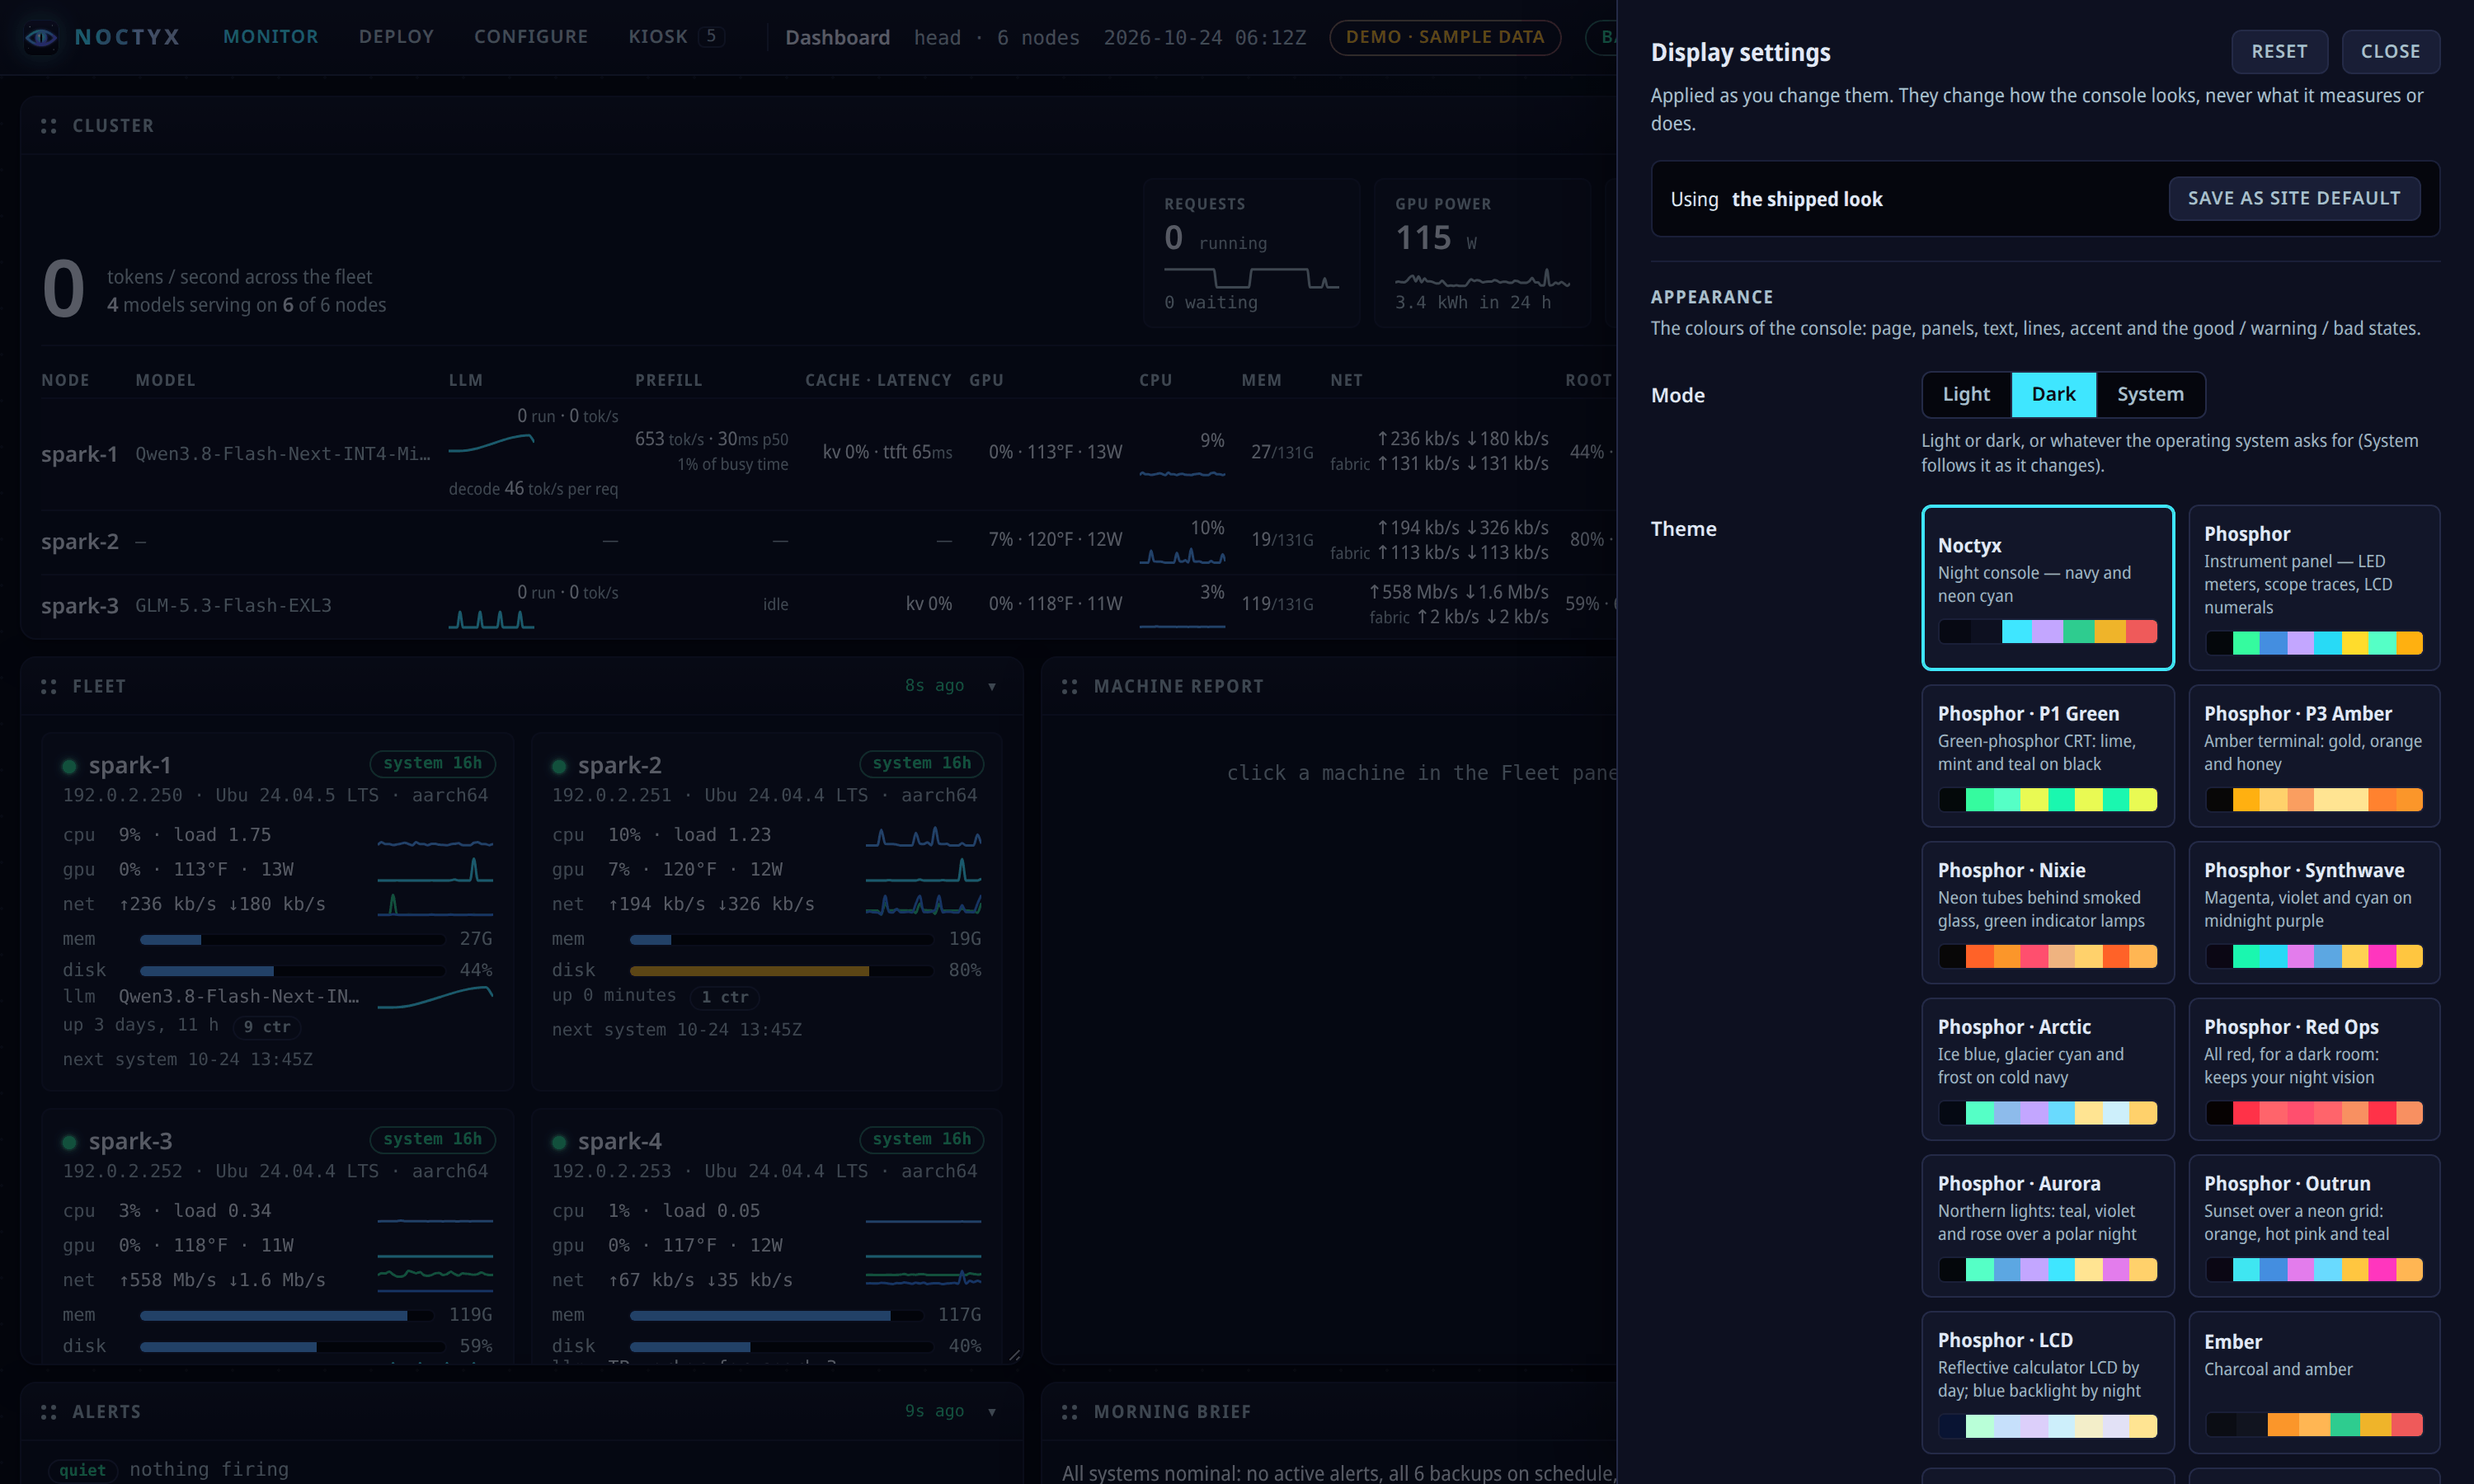
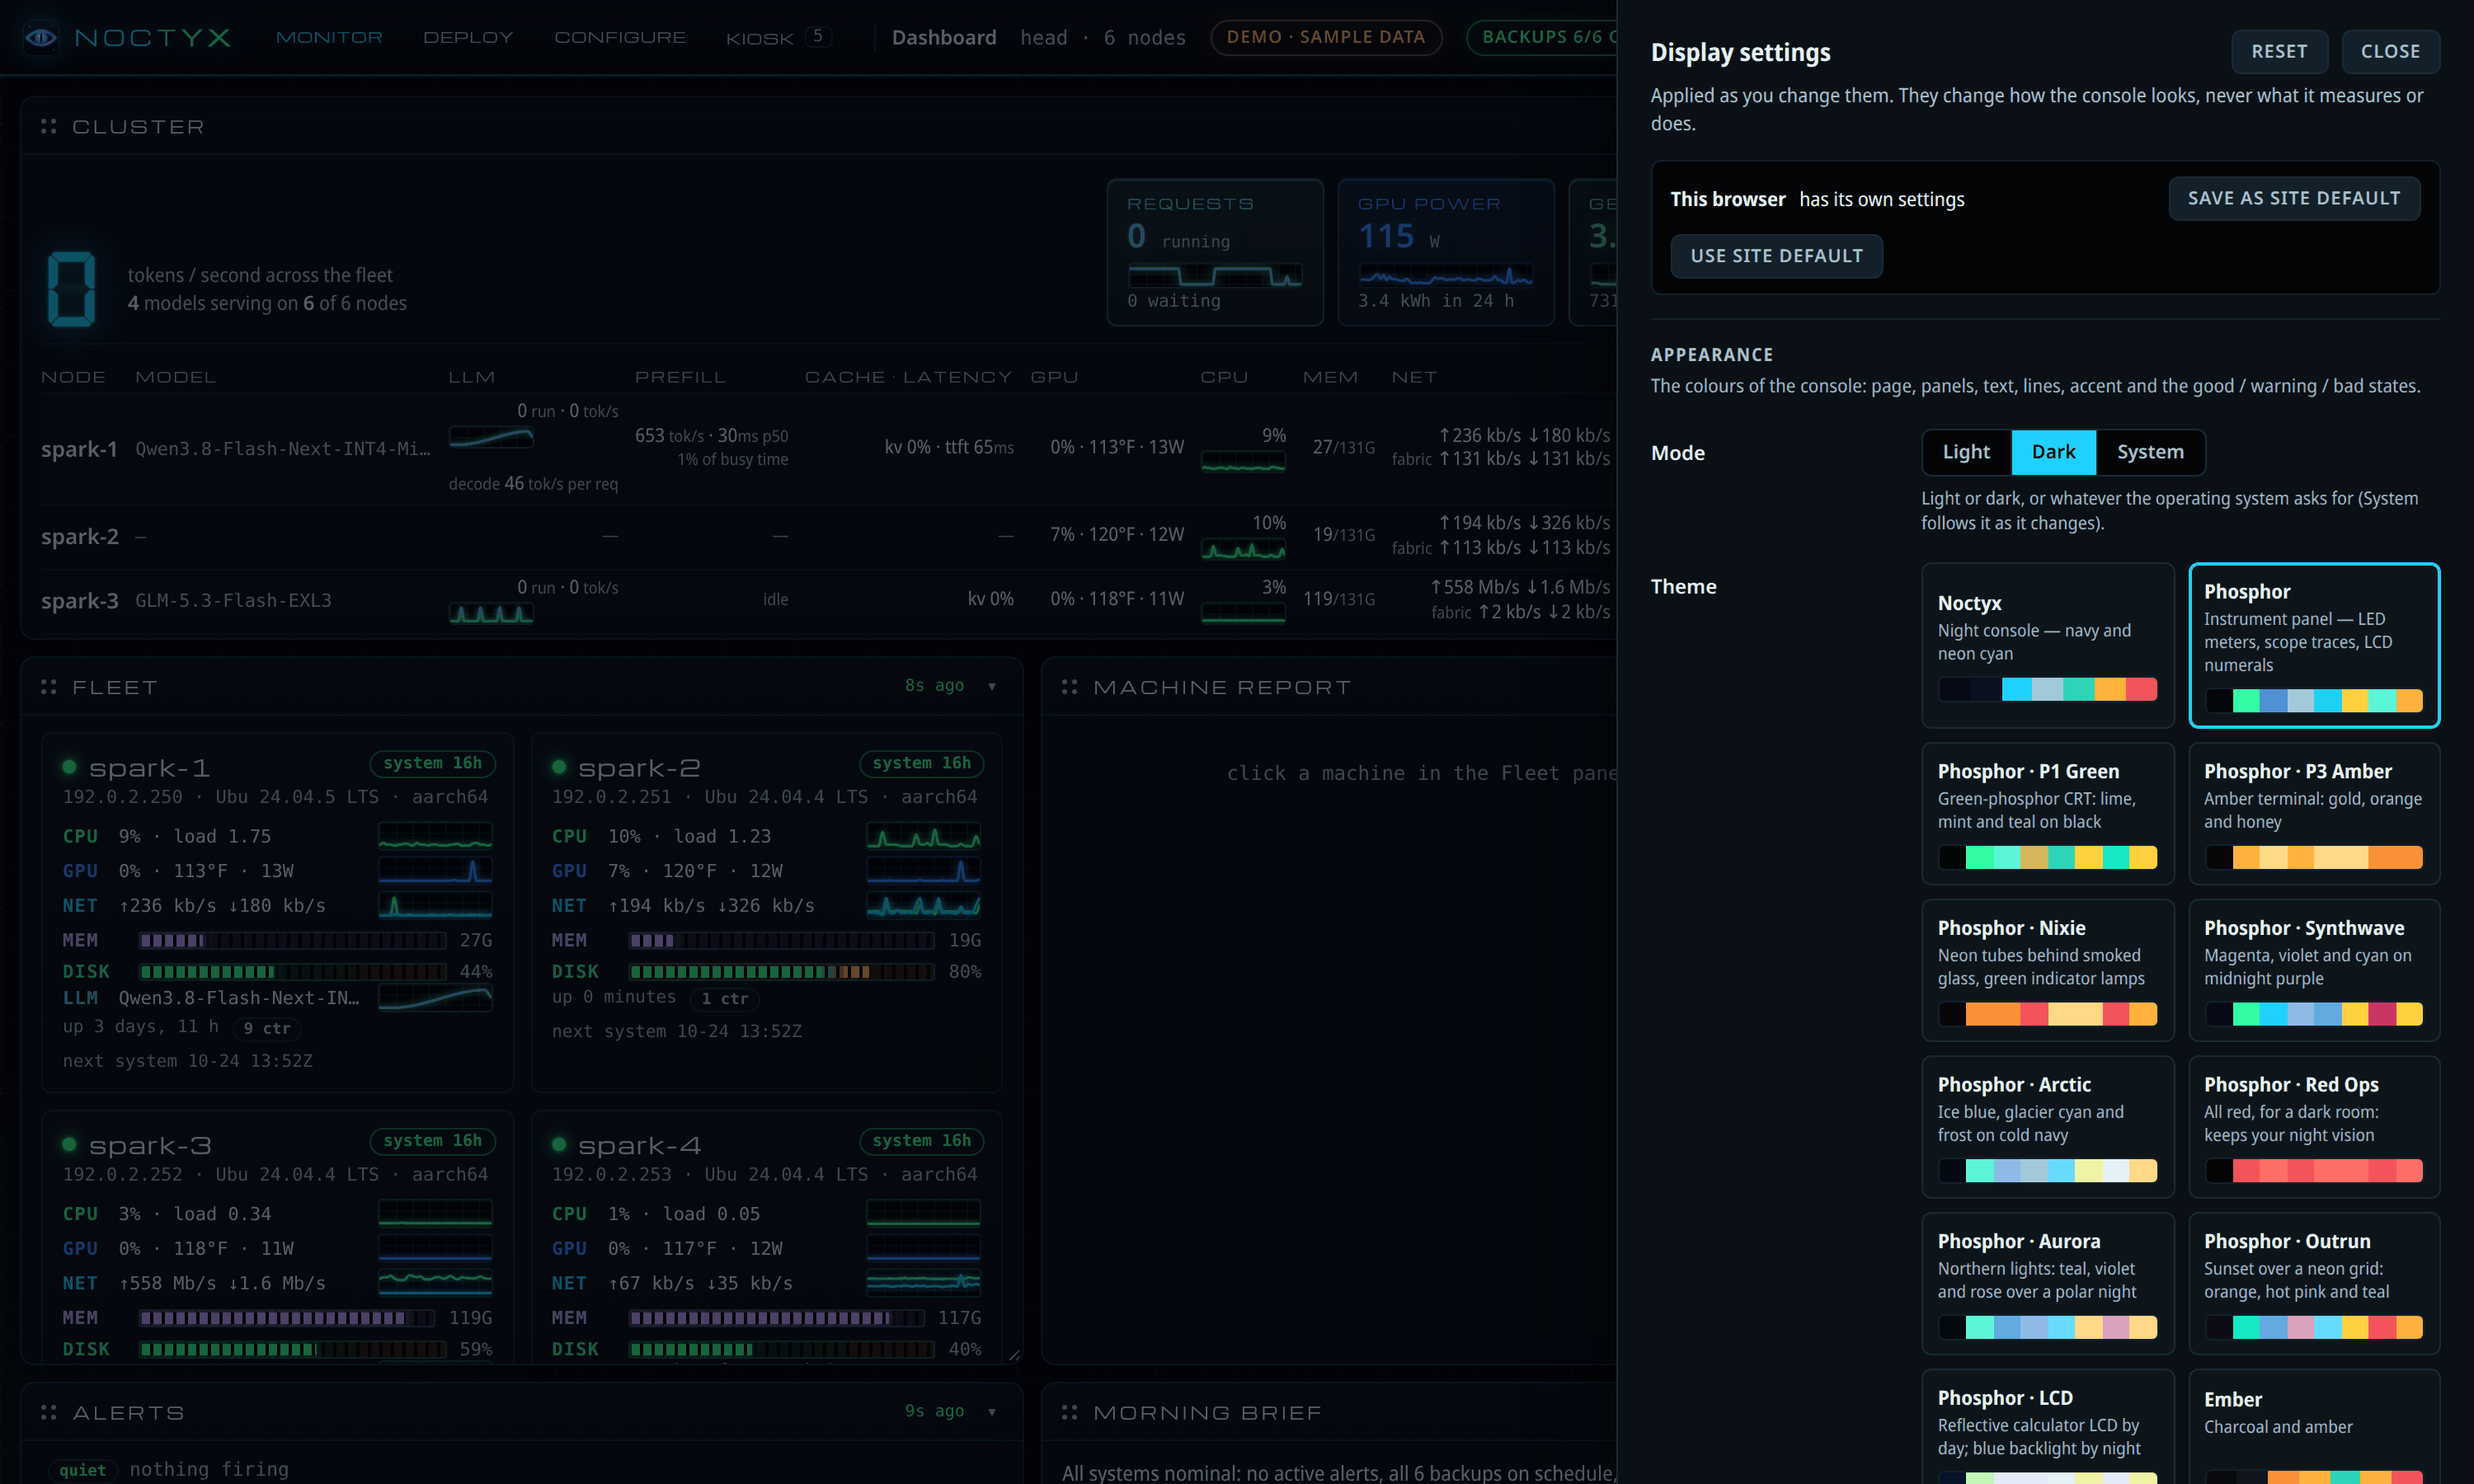
screenshots: taken in Phosphor, the look the console runs in (dashboard and Ember light stay the classic-theme examples)

diff --git a/tools/screenshots.py b/tools/screenshots.py
@@ -19,7 +19,7 @@ FAMILY = ["phosphor", "aurora", "outrun", "lcd", "p1green", "p3amber", "nixie", 
 # name: (path, [js steps run after load; "sleep:N" waits], full-page height or None); "_" names are
 # intermediate (the Phosphor family's kiosks, tiled into phosphor-family.png and then removed)
 SHOTS = {
-    "dashboard": ("/", ["sleep:3"], None),
+    "dashboard": ("/", ["NXT.save({theme:'noctyx',mode:'dark'})", "location.reload()", "sleep:4"], None),
     "cluster": ("/cluster", ["sleep:3"], None),
     "node": ("/", ["sleep:2", "selectHost('spark-1')", "sleep:4"], None),
     "recipes": ("/recipes", ["sleep:3"], None),
@@ -38,6 +38,13 @@ SHOTS = {
     "about": ("/about", ["sleep:3"], None),
     "login": ("/login", ["sleep:1"], None),
 }
+
+
+# a shot that sets no theme is taken in Phosphor, the look the console is run in; dashboard and theme-ember-light
+# show the classic themes
+DEFAULT_LOOK = ["NXT.save({theme:'phosphor',mode:'dark'})", "location.reload()", "sleep:3"]
+SHOTS = {n: (path, steps if any("NXT.save" in x for x in steps) or path == "/login" else DEFAULT_LOOK + steps, h)
+         for n, (path, steps, h) in SHOTS.items()}
 
 
 def free_port():
